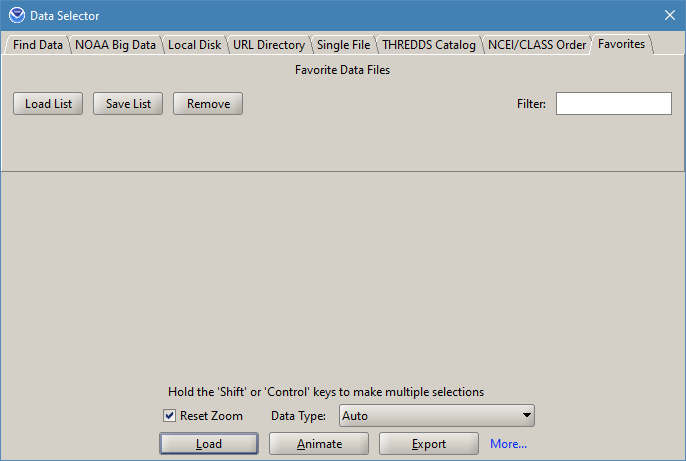
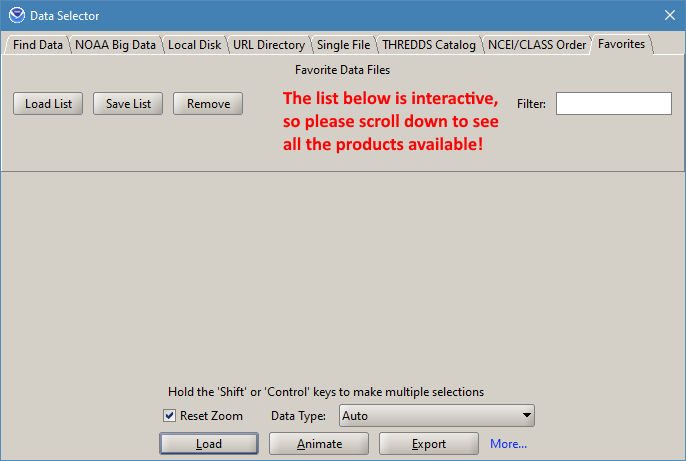
revamp of look/operation

Changed region(s): [[0.398, 0.1822, 0.7347, 0.3341]]

diff --git a/PYTHON/wctfavs.html b/PYTHON/wctfavs.html
@@ -3,190 +3,52 @@
 	<head>
 		<base href="../">
 		<title>ksgwxfan - Radar WCTFAVS</title>
+		<link rel="stylesheet" type="text/css" href="PYTHON/wctfavs.css"></link>
 		<link rel="stylesheet" type="text/css" href="pageheader.css"></link>
-		<style>
-			.DESC {
-				width:85%;
-				margin:auto;
-				}
-			.CAPTION {
-				text-align:center;
-				font-size:14px;
-				font-style: italic;
-				}
-			.INTEX {
-				position: relative;
-				margin: auto;
-				}
-			.DESCIMG {
-				display: block;
-				margin-left: auto;
-				margin-right: auto;
-				}
-			select:selected {
-				background-color: navy;
-				}
-		</style>
 	</head>
-	<body style="background-color:#141414;color:white;" link="lightBlue" vlink="lightBlue">
+	<body link="lightBlue" vlink="lightBlue" onLoad="populate_products()">
 		<h1 id="header">
 			<img id="headerphoto" src="profile.png"> Python Creations - Radar .WCTFAVS Files
 		</h1>
-		<div style="text-align:center;">
-			<img src="download.png"><span style="font-size:36px;font-weight:bold;"><a href="PYTHON/WCTFAVS/WCTFAVS_files_072018.zip">WCTFAVS_files_072018.zip</a></span><br><br>
-			<img class="DESCIMG" src="PYTHON/WCTFAVS/mainphoto.jpg"><br><br>
+		<!-- DOWNLOAD LINK -->
+		<div class="download_link">
+			<img src="download.png"> 
+			<a href="PYTHON/WCTFAVS/WCTFAVS_files_072018.zip">
+				WCTFAVS_files_072018.zip
+			</a>
 		</div>
-		<div id="info" class="DESC">
-			<span id="update" style="color:rgb(255,120,120);">
-				*** NEW *** - I updated the products available by including the 3-digit product code for each item and reorganized the lists by angle. 
-				Enjoy! (07/24/18)
-			</span><br><br>
-			WCTFAVS files work exclusively in <a href="https://www.ncdc.noaa.gov/wct/" target="_blank">NOAA's Weather Climate Toolkit</a> (WCT). WCTFAVS is a 
-			type of file extension for a basic-formatted text file. The favorites feature in WCT is typically used to store your favorite items, but I 
-			engineered these files with Python, specifically for use with the favorites feature. They specifically access the most recent Level-III radar data. 
-			WCT makes accessing Level-II data very simple, but L3 data is another story. There are near-real time catalogs updated (like through Unidata) which 
-			offer generally quick access to L3 data over the past month. But I figure the NWS servers update quicker and I believe offer more updates. One 
-			downside is they offer only the last 200-300 updated images or so. Furthermore, the NWS server's heirarchy is way too complicated to use recent 
-			L3 data within WCT, so these files can bridge that gap. I believe it's the better option if you want to use WCT in near-real time.<br><br>
-
-			<div class="INTEX">
-				<!-- selectbox: 660x200 -->
-				<img class="DESCIMG" src="PYTHON/WCTFAVS/intimg.png">
-				<div id="invite" style="position:absolute;top:18%;right:35%;width:160px;color:rgb(180,0,0);font-weight:bold;">The below list is interactive, so please scroll down to see all the products available!</div>
-				<div id="selbox" style="position:absolute;bottom:18%;left:20.75%;">
-					<select size="10" style="width:660px;height:200px;">
-						<option> TDWR PRODUCTS -----------------------------------------------</option>
-						<option>TR0 - Base reflectivity - 48 nmi Range - 0.1-0.8deg</option>
-						<option>TR1 - Base reflectivity - 48 nmi Range - 1.0deg</option>
-						<option>TR2 - Base reflectivity - 48 nmi Range - 1.6-3.7deg</option>
-						<option>TV0 - Base Radial Velocity - 48 nmi Range - 0.1-0.8deg</option>
-						<option>TV1 - Base Radial Velocity - 48 nmi Range - 1.0deg</option>
-						<option>TV2 - Base Radial Velocity - 48 nmi Range - 1.6-3.7deg</option>
-						<option>TZL - Long Range Reflectivity - 225 nmi Range - 0.6deg</option>
-						<option>------ WSR88D SPECIALTY PRODUCTS ---------------------------------</option>
-						<option>NVL - Vertical Integrated Liquid</option>
-						<option>DVL - Digital Vertical Integrated Liquid</option>
-						<option>NET - Echo Tops</option>
-						<option>EET - Enhanced Echo Tops</option>
-						<option>NVW - Velocity Azimuth Dispaly VAD Wind Profile</option>
-						<option>------ WSR88D - 0.5 DEG ------------------------------------------</option>
-						<option>N0R - Base reflectivity - 124 nmi Range - 0.5deg - Low Resolution</option>
-						<option>N0Z - Base reflectivity - 248 nmi Range - 0.5deg - Low Resolution</option>
-						<option>N0Q - Base reflectivity - 248 nmi Range - 0.5deg</option>
-						<option>DHR - Digital Hybrid Scan Reflectivity</option>
-						<option>N0V - Base Radial Velocity - 124 nmi Range - 0.5deg - Low Resolution</option>
-						<option>N0U - Base Radial Velocity - 162 nmi Range - 0.5deg</option>
-						<option>N0S - Storm Relative Mean Velocity - 0.5deg</option>
-						<option>N0X - Digital Differential Reflectivity - 0.5deg</option>
-						<option>N0C - Digital Correlation Coefficient - 0.5deg</option>
-						<option>N0K - Digital Specific Differential Phase - 0.5deg</option>
-						<option>NSW - Base Spectrum Width - 124km</option>
-						<option>N0H - Digital Hydrometeor Classification - 0.5deg</option>
-						<option>HHC - Hybrid Scan Hydrometeor Classification</option>
-						<option>------ WSR88D - 0.9 DEG ------------------------------------------</option>
-						<option>NAQ - Base reflectivity - 248 nmi Range - 0.9deg</option>
-						<option>NAU - Base Radial Velocity - 162 nmi Range - 0.9deg</option>
-						<option>NAX - Digital Differential Reflectivity - 0.9deg</option>
-						<option>NAC - Digital Correlation Coefficient - 0.9deg</option>
-						<option>NAK - Digital Specific Differential Phase - 0.9deg</option>
-						<option>NAH - Digital Hydrometeor Classification - 0.9deg</option>
-						<option>------ WSR88D - 1.3 DEG ------------------------------------------</option>
-						<option>N1Q - Base reflectivity - 248 nmi Range - 1.3-1.5deg</option>
-						<option>N1U - Base Radial Velocity - 162 nmi Range - 1.3-1.5deg</option>
-						<option>N1S - Storm Rel. Mean radial velocity map - 1.3-1.5deg</option>
-						<option>N1X - Digital Differential Reflectivity - 1.3-1.5deg</option>
-						<option>N1C - Digital Correlation Coefficient - 1.3-1.5deg</option>
-						<option>N1K - Digital Specific Differential Phase - 1.3-1.5deg</option>
-						<option>N1H - Digital Hydrometeor Classification - 1.3-1.5deg</option>
-						<option>------ WSR88D - 1.8 DEG ------------------------------------------</option>
-						<option>NBQ - Base reflectivity - 248 nmi Range - 1.8deg</option>
-						<option>NBU - Base Radial Velocity - 162 nmi Range - 1.8deg</option>
-						<option>NBX - Digital Differential Reflectivity - 1.8deg</option>
-						<option>NBC - Digital Correlation Coefficient - 1.8deg</option>
-						<option>NBK - Digital Specific Differential Phase - 1.8deg</option>
-						<option>NBH - Digital Hydrometeor Classification - 1.8deg</option>
-						<option>------ WSR88D - 2.4 DEG ------------------------------------------</option>
-						<option>N2Q - Base reflectivity - 248 nmi Range - 2.4-2.5deg</option>
-						<option>N2U - Base Radial Velocity - 162 nmi Range - 2.4-2.5deg</option>
-						<option>N2S - Storm Rel. Mean radial velocity map - 2.4-2.5deg</option>
-						<option>N2X - Digital Differential Reflectivity - 2.4-2.5deg</option>
-						<option>N2C - Digital Correlation Coefficient - 2.4-2.5deg</option>
-						<option>N2K - Digital Specific Differential Phase - 2.4-2.5deg</option>
-						<option>N2H - Digital Hydrometeor Classification - 2.4-2.5deg</option>
-						<option>------ WSR88D - 3.1 DEG ------------------------------------------</option>
-						<option>N3Q - Base reflectivity - 248 nmi Range - 3.1-3.4-3.5deg</option>
-						<option>N3U - Base Radial Velocity - 162 nmi Range - 3.1-3.4-3.5deg</option>
-						<option>N3S - Storm Rel. Mean radial velocity map - 3.1-3.4-3.5deg</option>
-						<option>N3X - Digital Differential Reflectivity - 3.1-3.4-3.5deg</option>
-						<option>N3C - Digital Correlation Coefficient - 3.1-3.4-3.5deg</option>
-						<option>N3K - Digital Specific Differential Phase - 3.1-3.4-3.5deg</option>
-						<option>N3H - Digital Hydrometeor Classification - 3.1-3.4-3.5deg</option>
-						<option>------ COMPOSITE REFLECTIVITY ------------------------------------</option>
-						<option>NCR - Composite Reflectivity - 16 levels - 124nmi</option>
-						<option>NCZ - Composite Reflectivity - 16 levels - 248nmi</option>
-						<option>NHL - Layer composite reflectivity Maximum - Upper Level</option>
-						<option>NLA - Layer Composite Reflectivity with AP removed</option>
-						<option>NML - Layer Composite Reflectivity Maximum Mid-Level</option>
-						<option>------ PRECIPITATION ---------------------------------------------</option>
-						<option>N1P - Surface Rainfall Accumulation - 1HR Total</option>
-						<option>DPA - Digital Precipitation Array - 1HR</option>
-						<option>OHA - One Hour Accumulation - Dual Pol - BIASED</option>
-						<option>DAA - Digital Accumulation Array - 1HR - Dual Pol - UNBIASED</option>
-						<option>DOD - Digital One Hour Difference Accumulation (DAA-N1P)</option>
-						<option>DPR - Digital Instantaneous Precipitation Rate</option>
-						<option>N3P - Surface Rainfall Accumulation - 3HR Total</option>
-						<option>DU3 - Digital User-Selectable Accumulation: 3HR-hrly</option>
-						<option>DU6 - Digital User-Selectable Accumulation: 24HR-12Z</option>
-						<option>NTP - Surface Rainfall Accumulation - Storm Total</option>
-						<option>PTA - Storm Total Accumulation - Dual Pol</option>
-						<option>DSP - Digital Storm Total Accumulation - PPS</option>
-						<option>DTA - Digital Storm Total Accumulation - Dual Pol</option>
-						<option>DSD - Digital Storm Total Difference Accumulation (DTA-NTP)</option>
-						<option>------ DATA PRODUCTS ---------------------------------------------</option>
-						<option>NSS - Storm Structure</option>
-						<option>NST - Storm Tracking Information</option>
-						<option>NMD - Mesocyclone</option>
-						<option>NTV - Tornadic Vortex Signature</option>
-						<option>NHI - Hail Index</option>
-						<option>SPD - Supplemental precip data</option>
-						<option>------ TEXT PRODUCTS ---------------------------------------------</option>
-						<option>GSM - General Status Message</option>
-						<option>FTM - Free Text message</option>
-						<option>ASP - Archive III Status Product</option>
-						<option>RCM - Radar Coded message</option>
-						<option>------ MELTING LAYER ---------------------------------------------</option>
-						<option>N0M - Melting Layer – 0.5deg</option>
-						<option>N1M - Melting Layer – 0.9deg</option>
-						<option>N2M - Melting Layer – 1.3-1.5deg</option>
-						<option>N3M - Melting Layer – 1.8deg</option>
-						<option>NAM - Melting Layer – 2.4-2.5deg</option>
-						<option>NBM - Melting Layer – 3.1-3.5deg</option>
-						<option>------ CLUTTER FILTER --------------------------------------------</option>
-						<option>NC1 - Clutter Filter Control - Segment 1</option>
-						<option>NC2 - Clutter Filter Control - Segment 2</option>
-						<option>NC3 - Clutter Filter Control - Segment 3</option>
-						<option>NC4 - Clutter Filter Control - Segment 4</option>
-						<option>NC5 - Clutter Filter Control - Segment 5</option>
-					</select>
-				</div>
-			</div><br>
-			<div class="CAPTION">Interactive preview of what you'll see when you load a WCTFAVS file</div><br><br>
-			<img class="DESCIMG" src="PYTHON/WCTFAVS/filelist.jpg"><br>
-			<!--     <div class="CAPTION">some text</div><br><br>  -->
-			<div class="CAPTION">Quick-look of the included files; grouped according to State Abbreviation</div><br><br>
-			What makes the use of these files possible is that on the NWS servers, they include a file: "sn.last," which will always 
-			hold the newest data for a given product. So each WCTFAV file can pull up the most recent data for a given product. In addition, to 
-			cut-down on quantity of files, I included the airport TDWR Radar data along with a nearby WSR-88d location.<br><br>
-			<img class="DESCIMG" src="PYTHON/WCTFAVS/innerfile.jpg" style="width:auto;"><br>
-			<div class="CAPTION">An example of what the inside of the radar WCTFAV files looks like</div><br><br>
-
-			<img class="DESCIMG" src="PYTHON/WCTFAVS/code_sample.jpg"><br>
-			<div class="CAPTION">A snippet of code I used for the script</div><br><br>
-			I'm not sure if these files will be of service to you, but it sure did to me as a WCT fan. In the future (or at your request) I may 
-			upload the python code I used to generate all of those files (I didn't do it manually by any means!). It did take me a while, but otherwise, 
-			I wouldn't have completed the project.<br><br>
+		<!-- MAIN IMG -->
+		<img id="intro-screenshot" src="PYTHON/WCTFAVS/mainphoto.jpg" />
+		<!-- Information / Description -->
+		<div class="information">
+			<p>WCTFAVS files work exclusively in <a href="https://www.ncdc.noaa.gov/wct/">NOAA's Weather Climate Toolkit</a> (WCT). WCTFAVS is a type of file extension for a basic-formatted text file. The favorites feature in WCT is typically used to store your favorite items, but I engineered these files with Python, specifically for use with the favorites feature. They specifically access the most recent Level-III radar data.</p>
+			<p>WCT makes accessing Level-II data very simple, but L3 data is a little more difficult. You can now access the data via a menu process, but to do that every time will get old. These files can alleviate that. I believe it's the better option if you want to use WCT in near-real time.</p>
 		</div>
+		<div id="interactive-example">
+			<!-- selectbox: 660x200 -->
+			<img id="example" src="PYTHON/WCTFAVS/intimg.png" alt="Interactive Example">
+			<select id="products" size="10">
+
+			</select>
+		</div>
+		<figure>
+			<img src="PYTHON/WCTFAVS/filelist.jpg" />
+			<figcaption>
+				Quick-look of the included files; grouped according to State Abbreviation
+			</figcaption>
+		</figure>
+		<div class="information">
+			What makes the use of these files possible is that on the NWS servers, they include a file: "<code>sn.last</code>", which will always hold the newest data for a given product. So each WCTFAV file can pull up the most recent data for a given product. In addition, to cut-down on quantity of files, I included the airport TDWR Radar data along with a nearby WSR-88d location.
+		</div>
+		<figure>
+			<img src="PYTHON/WCTFAVS/code_sample.jpg" />
+			<figcaption>
+				A snippet of code I used for the script
+			</figcaption>
+		</figure>
+
 		<div id="footer"></div>
+		<script src="PYTHON/wctfavs.js"></script>
 		<script src="footer.js"></script>
 	</body>
 </html>

diff --git a/PYTHON/wctfavs.js b/PYTHON/wctfavs.js
@@ -1,0 +1,125 @@
+let products = document.getElementById("products");
+
+function populate_products() {
+	for (product of prod_list) {
+		opt = document.createElement("option");
+		opt.value = product.value;
+		opt.innerText = product.description;
+		products.appendChild(opt);
+	}
+}
+
+	let prod_list = [
+        {"value": "135et", "description": "------ TDWR PRODUCTS ------"},
+        {"value": "181r0", "description": "TR0 - Base reflectivity - 48 nmi Range - 0.1-0.8deg"},
+        {"value": "181r1", "description": "TR1 - Base reflectivity - 48 nmi Range - 1.0deg"},
+        {"value": "181r2", "description": "TR2 - Base reflectivity - 48 nmi Range - 1.6-3.7deg"},
+        {"value": "182v0", "description": "TV0 - Base Radial Velocity - 48 nmi Range - 0.1-0.8deg"},
+        {"value": "182v1", "description": "TV1 - Base Radial Velocity - 48 nmi Range - 1.0deg"},
+        {"value": "182v2", "description": "TV2 - Base Radial Velocity - 48 nmi Range - 1.6-3.7deg"},
+        {"value": "186zl", "description": "TZL - Long Range Reflectivity - 225 nmi Range - 0.6deg"},
+        {"value": "135et", "description": "------ WSR88D SPECIALTY PRODUCTS ---------------------------------"},
+        {"value": "57vil", "description": "NVL - Vertical Integrated Liquid"},
+        {"value": "134il", "description": "DVL - Digital Vertical Integrated Liquid"},
+        {"value": "p41et", "description": "NET - Echo Tops"},
+        {"value": "135et", "description": "EET - Enhanced Echo Tops"},
+        {"value": "48vwp", "description": "NVW - Velocity Azimuth Dispaly VAD Wind Profile"},
+        {"value": "135et", "description": "------ WSR88D - 0.5 DEG ------------------------------------------"},
+        {"value": "p94r0", "description": "N0Q - Base reflectivity - 248 nmi Range - 0.5deg"},
+        {"value": "p99v0", "description": "N0U - Base Radial Velocity - 162 nmi Range - 0.5deg"},
+        {"value": "56rm0", "description": "N0S - Storm Relative Mean Velocity - 0.5deg"},
+        {"value": "159x0", "description": "N0X - Digital Differential Reflectivity - 0.5deg"},
+        {"value": "161c0", "description": "N0C - Digital Correlation Coefficient - 0.5deg"},
+        {"value": "163k0", "description": "N0K - Digital Specific Differential Phase - 0.5deg"},
+        {"value": "165h0", "description": "N0H - Digital Hydrometeor Classification - 0.5deg"},
+        {"value": "p30sw", "description": "NSW - Base Spectrum Width - 124km"},
+        {"value": "32dhr", "description": "DHR - Digital Hybrid Scan Reflectivity"},
+        {"value": "177hh", "description": "HHC - Hybrid Scan Hydrometeor Classification"},
+        {"value": "135et", "description": "------ WSR88D - 0.9 DEG ------------------------------------------"},
+        {"value": "p94ra", "description": "NAQ - Base reflectivity - 248 nmi Range - 0.9deg"},
+        {"value": "p99va", "description": "NAU - Base Radial Velocity - 162 nmi Range - 0.9deg"},
+        {"value": "159xa", "description": "NAX - Digital Differential Reflectivity - 0.9deg"},
+        {"value": "161ca", "description": "NAC - Digital Correlation Coefficient - 0.9deg"},
+        {"value": "163ka", "description": "NAK - Digital Specific Differential Phase - 0.9deg"},
+        {"value": "165ha", "description": "NAH - Digital Hydrometeor Classification - 0.9deg"},
+        {"value": "135et", "description": "------ WSR88D - 1.3 DEG ------------------------------------------"},
+        {"value": "p94r1", "description": "N1Q - Base reflectivity - 248 nmi Range - 1.3-1.5deg"},
+        {"value": "p99v1", "description": "N1U - Base Radial Velocity - 162 nmi Range - 1.3-1.5deg"},
+        {"value": "56rm1", "description": "N1S - Storm Rel. Mean radial velocity map - 1.3-1.5deg"},
+        {"value": "159x1", "description": "N1X - Digital Differential Reflectivity - 1.3-1.5deg"},
+        {"value": "161c1", "description": "N1C - Digital Correlation Coefficient - 1.3-1.5deg"},
+        {"value": "163k1", "description": "N1K - Digital Specific Differential Phase - 1.3-1.5deg"},
+        {"value": "165h1", "description": "N1H - Digital Hydrometeor Classification - 1.3-1.5deg"},
+        {"value": "135et", "description": "------ WSR88D - 1.8 DEG ------------------------------------------"},
+        {"value": "p94rb", "description": "NBQ - Base reflectivity - 248 nmi Range - 1.8deg"},
+        {"value": "p99vb", "description": "NBU - Base Radial Velocity - 162 nmi Range - 1.8deg"},
+        {"value": "159xb", "description": "NBX - Digital Differential Reflectivity - 1.8deg"},
+        {"value": "161cb", "description": "NBC - Digital Correlation Coefficient - 1.8deg"},
+        {"value": "163kb", "description": "NBK - Digital Specific Differential Phase - 1.8deg"},
+        {"value": "165hb", "description": "NBH - Digital Hydrometeor Classification - 1.8deg"},
+        {"value": "135et", "description": "------ WSR88D - 2.4 DEG ------------------------------------------"},
+        {"value": "p94r2", "description": "N2Q - Base reflectivity - 248 nmi Range - 2.4-2.5deg"},
+        {"value": "p99v2", "description": "N2U - Base Radial Velocity - 162 nmi Range - 2.4-2.5deg"},
+        {"value": "56rm2", "description": "N2S - Storm Rel. Mean radial velocity map - 2.4-2.5deg"},
+        {"value": "159x2", "description": "N2X - Digital Differential Reflectivity - 2.4-2.5deg"},
+        {"value": "161c2", "description": "N2C - Digital Correlation Coefficient - 2.4-2.5deg"},
+        {"value": "163k2", "description": "N2K - Digital Specific Differential Phase - 2.4-2.5deg"},
+        {"value": "165h2", "description": "N2H - Digital Hydrometeor Classification - 2.4-2.5deg"},
+        {"value": "135et", "description": "------ WSR88D - 3.1 DEG ------------------------------------------"},
+        {"value": "p94r3", "description": "N3Q - Base reflectivity - 248 nmi Range - 3.1-3.4-3.5deg"},
+        {"value": "p99v3", "description": "N3U - Base Radial Velocity - 162 nmi Range - 3.1-3.4-3.5deg"},
+        {"value": "56rm3", "description": "N3S - Storm Rel. Mean radial velocity map - 3.1-3.4-3.5deg"},
+        {"value": "159x3", "description": "N3X - Digital Differential Reflectivity - 3.1-3.4-3.5deg"},
+        {"value": "161c3", "description": "N3C - Digital Correlation Coefficient - 3.1-3.4-3.5deg"},
+        {"value": "163k3", "description": "N3K - Digital Specific Differential Phase - 3.1-3.4-3.5deg"},
+        {"value": "165h3", "description": "N3H - Digital Hydrometeor Classification - 3.1-3.4-3.5deg"},
+        {"value": "135et", "description": "------ PRECIPITATION ---------------------------------------------"},
+        {"value": "78ohp", "description": "N1P - Surface Rainfall Accumulation - 1HR Total"},
+        {"value": "81dpr", "description": "DPA - Hourly Digital Precipitation Array - UNBIASED"},
+        {"value": "169oh", "description": "OHA - One Hour Accumulation - D.P."},
+        {"value": "170aa", "description": "DAA - Digital Accumulation Array - 1HR - D.P. - UNBIASED"},
+        {"value": "174od", "description": "DOD - Digital One Hour Difference Accumulation"},
+        {"value": "176pr", "description": "DPR - Digital Inst. Precip. Rate"},
+        {"value": "79thp", "description": "N3P - Surface Rainfall Accumulation - 3HR Total"},
+        {"value": "173u1", "description": "DU3 - Digital User-Selectable Accumulation: 3HR-hrly"},
+        {"value": "173u3", "description": "DU6 - Digital User-Selectable Accumulation: 24HR-12Z"},
+        {"value": "80stp", "description": "NTP - Surface Rainfall Accumulation - Storm Total"},
+        {"value": "171st", "description": "PTA - Storm Total Accumulation - D.P."},
+        {"value": "138dp", "description": "DSP - Digital Storm Total Accumulation - PPS"},
+        {"value": "172dt", "description": "DTA - Digital Storm Total Accumulation - D.P."},
+        {"value": "175sd", "description": "DSD - Digital Storm Total Difference Accumulation"},
+        {"value": "135et", "description": "------ OTHER RADAR -----------------------------------------------"},
+        {"value": "p19r0", "description": "N0R - Base reflectivity - 124 nmi Range - 0.5deg"},
+        {"value": "p27v0", "description": "N0V - Base Radial Velocity - 124 nmi Range - 0.5deg"},
+        {"value": "p20-r", "description": "N0Z - Base reflectivity - 248 nmi Range - 0.5deg"},
+        {"value": "p37cr", "description": "NCR - Composite Reflectivity - 16 levels – 124nmi"},
+        {"value": "p38cr", "description": "NCZ - Composite Reflectivity - 16 levels – 248nmi"},
+        {"value": "90lrm", "description": "NHL - Layer composite reflectivity max - Upper Level"},
+        {"value": "67apr", "description": "NLA - Layer Composite Reflectivity with AP removed"},
+        {"value": "66lrm", "description": "NML - Layer Composite Reflectivity Maximum Mid-Level"},
+        {"value": "135et", "description": "------ DATA PRODUCTS ---------------------------------------------"},
+        {"value": "p62ss", "description": "NSS - Storm Structure"},
+        {"value": "58sti", "description": "NST - Storm Tracking Information"},
+        {"value": "141md", "description": "NMD - Mesocyclone"},
+        {"value": "61tvs", "description": "NTV - Tornadic Vortex Signature"},
+        {"value": "p59hi", "description": "NHI - Hail Index"},
+        {"value": "82spd", "description": "SPD - Supplemental precip data"},
+        {"value": "135et", "description": "------ TEXT PRODUCTS ---------------------------------------------"},
+        {"value": "p2gsm", "description": "GSM - General Status Message"},
+        {"value": "75ftm", "description": "FTM - Free Text message"},
+        {"value": "152rs", "description": "ASP - Archive III Status Product"},
+        {"value": "74rcm", "description": "RCM - Radar Coded message"},
+        {"value": "135et", "description": "------ MELTING LAYER ---------------------------------------------"},
+        {"value": "166m0", "description": "N0M - Melting Layer – 0.5deg"},
+        {"value": "166ma", "description": "N1M - Melting Layer – 0.9deg"},
+        {"value": "166m1", "description": "N2M - Melting Layer – 1.3-1.5deg"},
+        {"value": "166mb", "description": "N3M - Melting Layer – 1.8deg"},
+        {"value": "166m2", "description": "NAM - Melting Layer – 2.4-2.5deg"},
+        {"value": "166m3", "description": "NBM - Melting Layer – 3.1-3.5deg"},
+        {"value": "135et", "description": "------ CLUTTER FILTER --------------------------------------------"},
+        {"value": "34cf1", "description": "NC1 - Clutter Filter Control - Segment 1"},
+        {"value": "34cf2", "description": "NC2 - Clutter Filter Control - Segment 2"},
+        {"value": "34cf3", "description": "NC3 - Clutter Filter Control - Segment 3"},
+        {"value": "34cf4", "description": "NC4 - Clutter Filter Control - Segment 4"},
+        {"value": "34cf5", "description": "NC5 - Clutter Filter Control - Segment 5"},
+	];

diff --git a/PYTHON/wctfavs.css b/PYTHON/wctfavs.css
@@ -1,0 +1,44 @@
+body {
+	background-color: #141414;
+	color: white;
+	display: flex;
+	flex-direction: column;
+	justify-content: center;
+	align-items: center;
+}
+
+.download_link {
+	font-size: 2em;
+	font-weight: bold;
+}
+#intro-screenshot {
+	vertical-align: middle;
+	object-fit: none;
+}
+.information {
+	width: 85%;
+}
+#interactive-example {
+	position: relative;
+	width: 686px;
+	height: 461px;
+}
+#example {
+	vertical-align: middle;
+	object-fit: none;
+	position: absolute;
+	top: 0; left: 0;
+	width: 100%;
+}
+#products {
+	position: absolute;
+	bottom: 18%;
+	left: 2%;
+	width: 660px;
+	height: 200px;
+}
+figcaption {
+	font-style: italic;
+	font-size: 0.9em;
+	text-align: center;
+}
